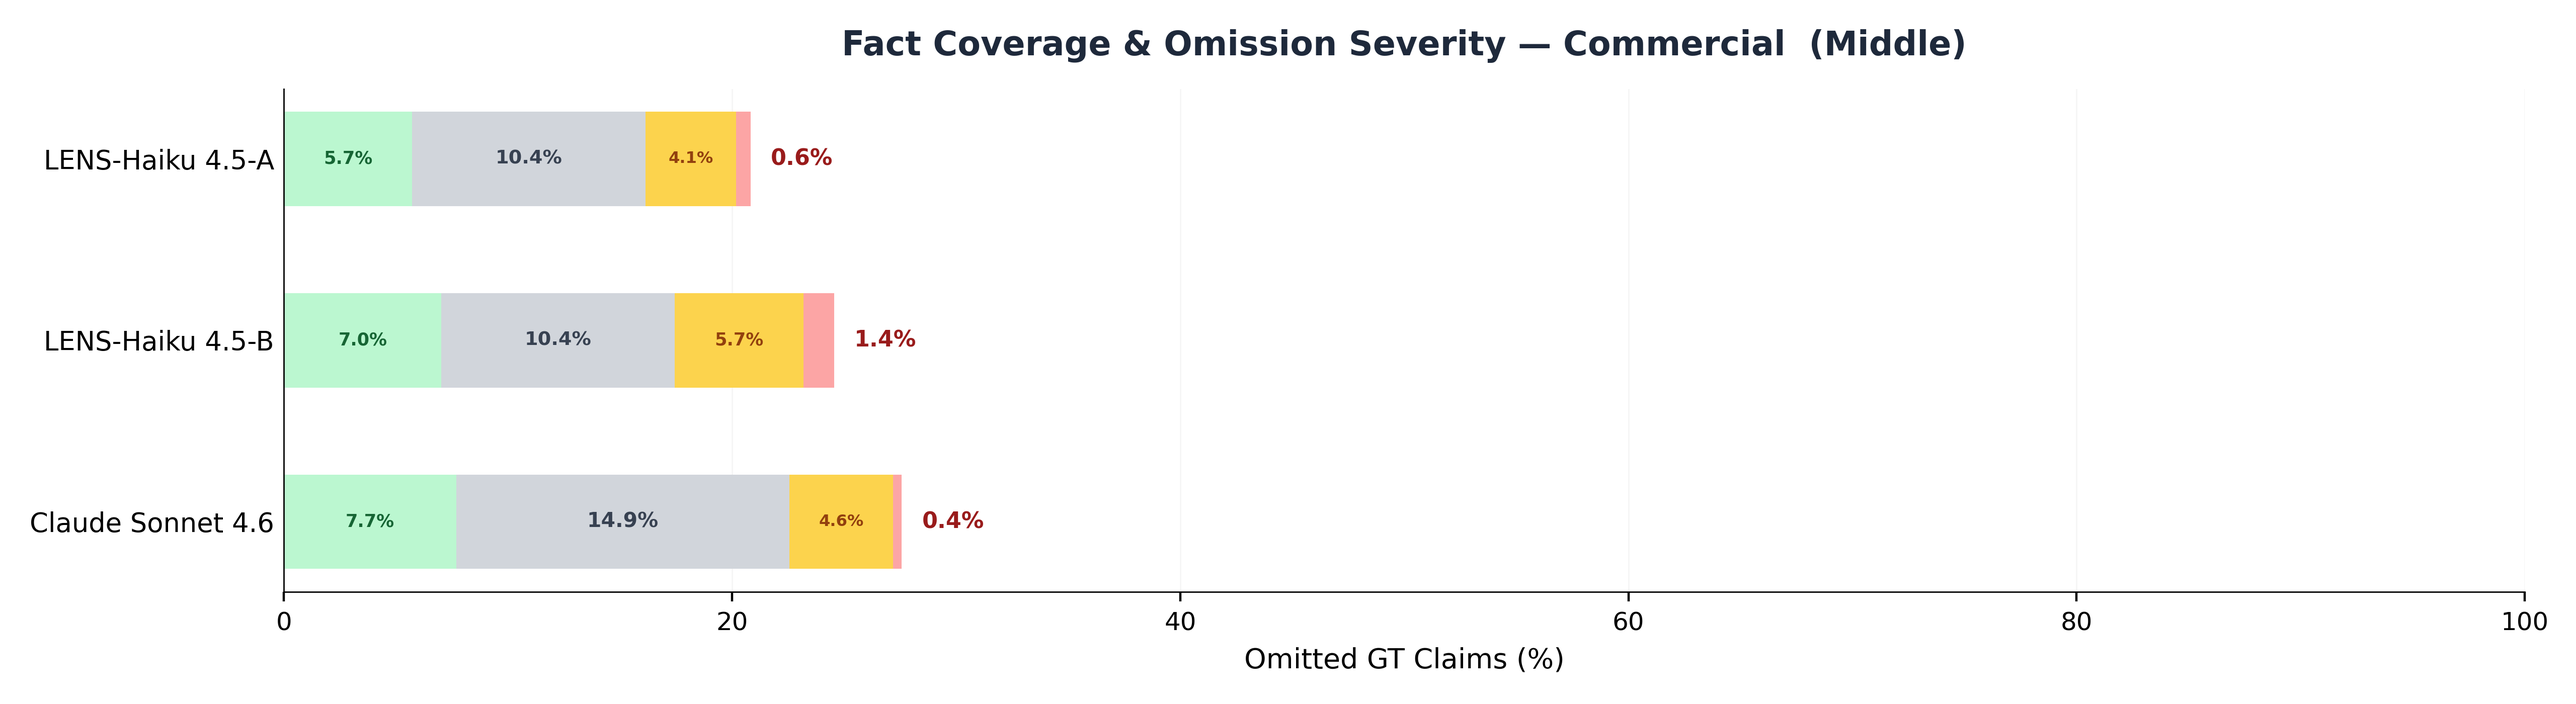
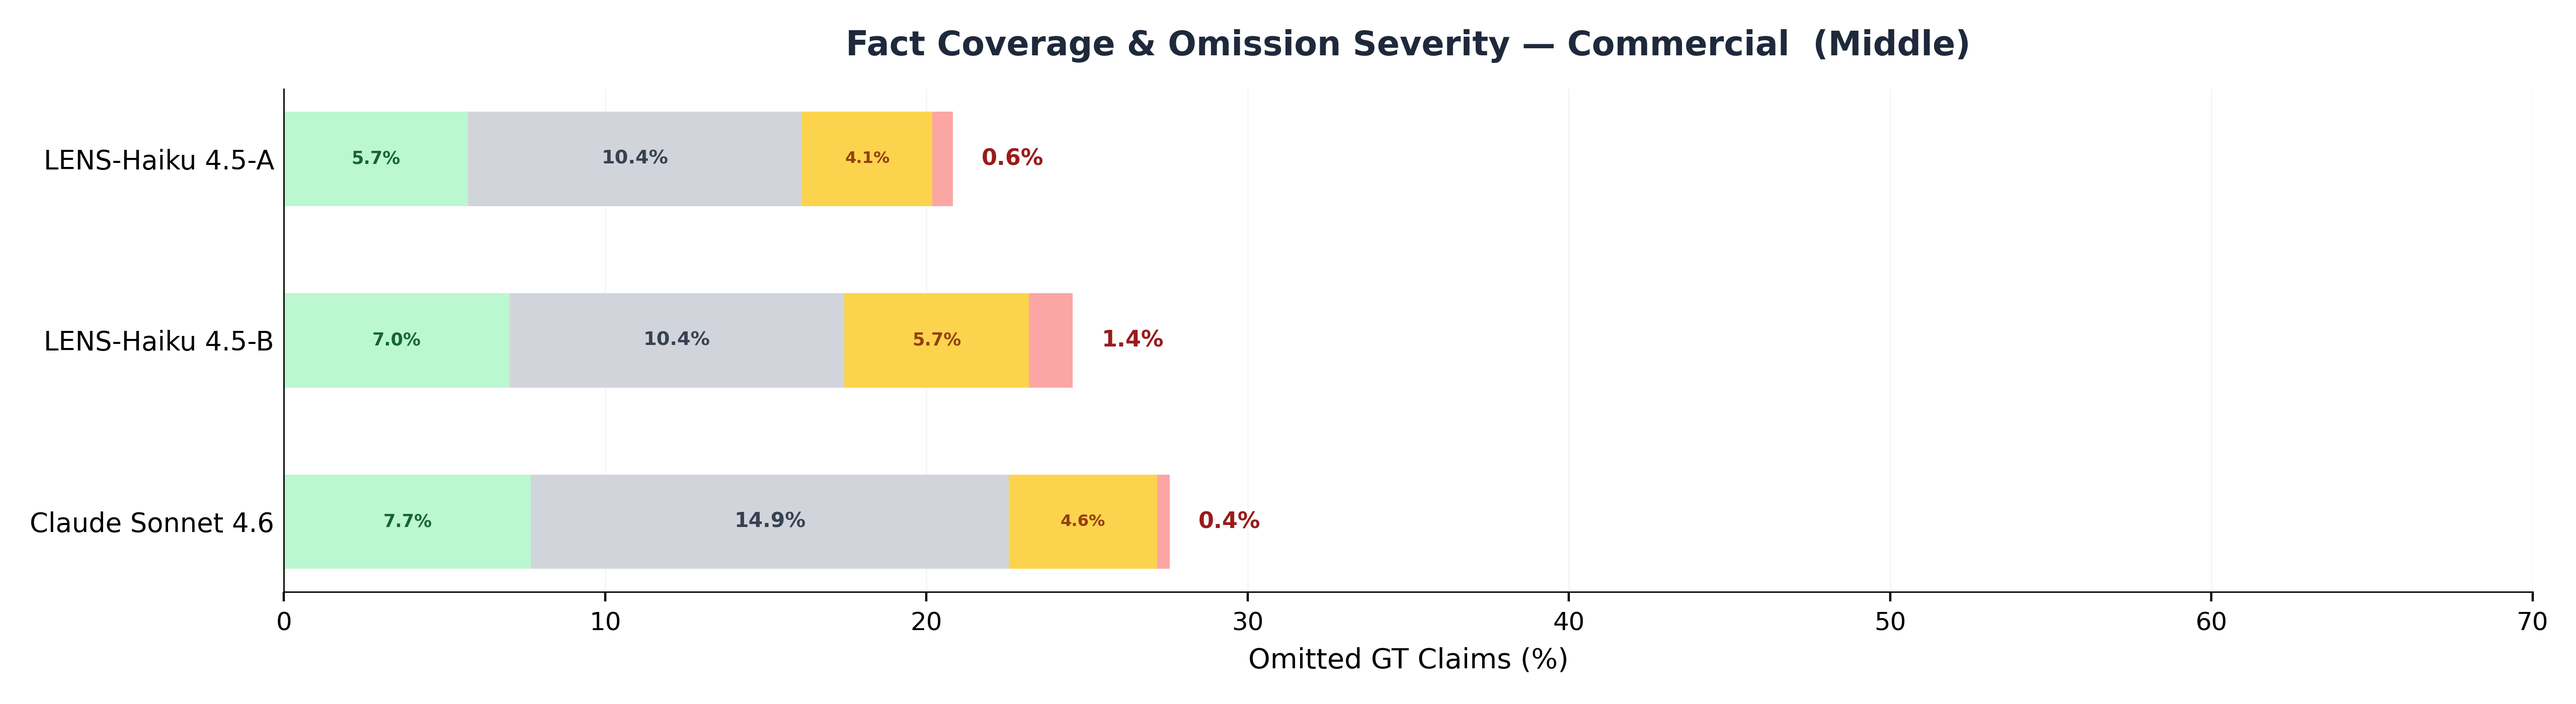
fix: consistent x-axis across commercial/opensource severity charts

diff --git a/scripts/plot_fact_severity_trials.py b/scripts/plot_fact_severity_trials.py
@@ -193,7 +193,7 @@ def load_rows(volume: str) -> pd.DataFrame:
 
 
 def plot_omission_only(df: pd.DataFrame, volume: str, out_path: Path, dpi: int,
-                       group_label: str = "") -> None:
+                       group_label: str = "", x_max: int | None = None) -> None:
     n = len(df)
     fig_h = max(3.5, 0.45 * n + 1.0)
     fig, ax = plt.subplots(figsize=(12.8, fig_h))
@@ -231,8 +231,11 @@ def plot_omission_only(df: pd.DataFrame, volume: str, out_path: Path, dpi: int,
         ax.text(x, y[i], f"{v:.1f}%", ha="left", va="center",
                 fontsize=8, color="#991b1b", fontweight="700", clip_on=False)
 
-    ax.set_xlim(0, 100)
-    ax.set_xticks(list(range(0, 101, 20)))
+    if x_max is None:
+        x_max = int(np.ceil(total_vals.max() / 5) * 5) + 5 if len(total_vals) else 65
+        x_max = max(x_max, 20)
+    ax.set_xlim(0, x_max)
+    ax.set_xticks(list(range(0, x_max + 1, 10)))
     ax.set_xlabel("Omitted GT Claims (%)", fontsize=10)
     title_suffix = f" — {group_label}" if group_label else ""
     ax.set_title(
@@ -274,13 +277,18 @@ def main() -> int:
         raise SystemExit("No data")
     out_base = OUT_DIR
 
+    # Compute global x_max across both groups for consistent axes
+    global_max = df[["partial", "minor", "important", "critical"]].fillna(0).sum(axis=1).max()
+    global_x_max = int(np.ceil(global_max / 5) * 5) + 5
+    global_x_max = max(global_x_max, 20)
+
     for grp, grp_label in [("commercial", "Commercial"), ("opensource", "Open-Source")]:
         df_grp = df[df["group"] == grp].reset_index(drop=True)
         if df_grp.empty:
             print(f"  (skipped — no data for {grp_label})")
             continue
         out_path = out_base / f"{args.volume}_trial_omission_only_{grp}.png"
-        plot_omission_only(df_grp, args.volume, out_path, args.dpi, group_label=grp_label)
+        plot_omission_only(df_grp, args.volume, out_path, args.dpi, group_label=grp_label, x_max=global_x_max)
         print(out_path)
 
     legend_path = out_base / f"{args.volume}_trial_omission_only_legend.png"
